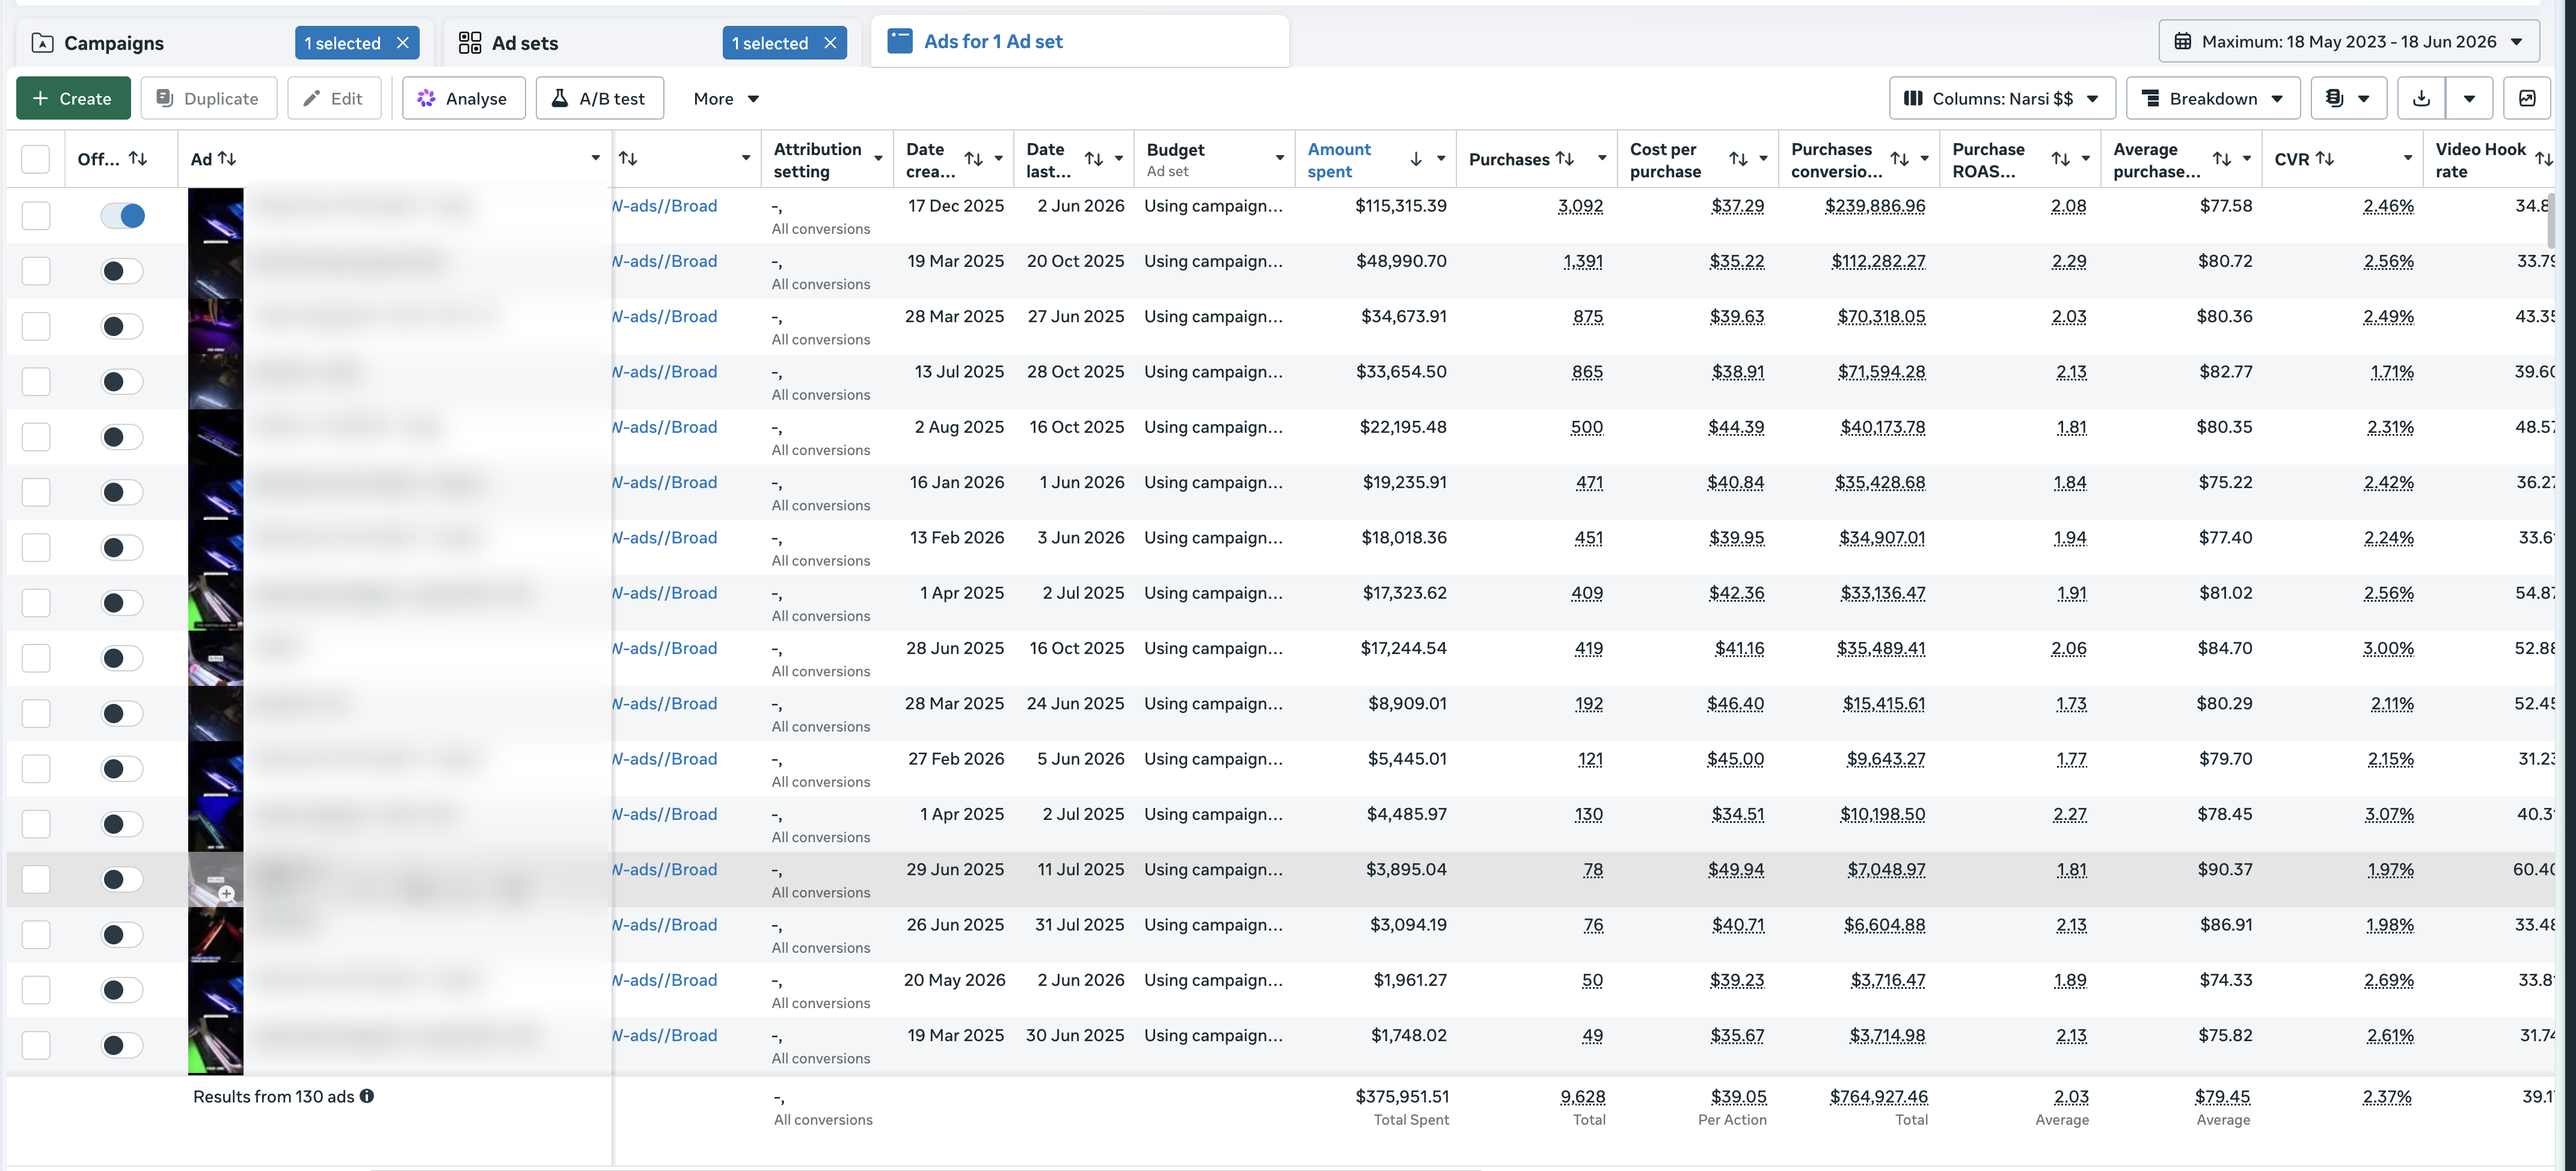
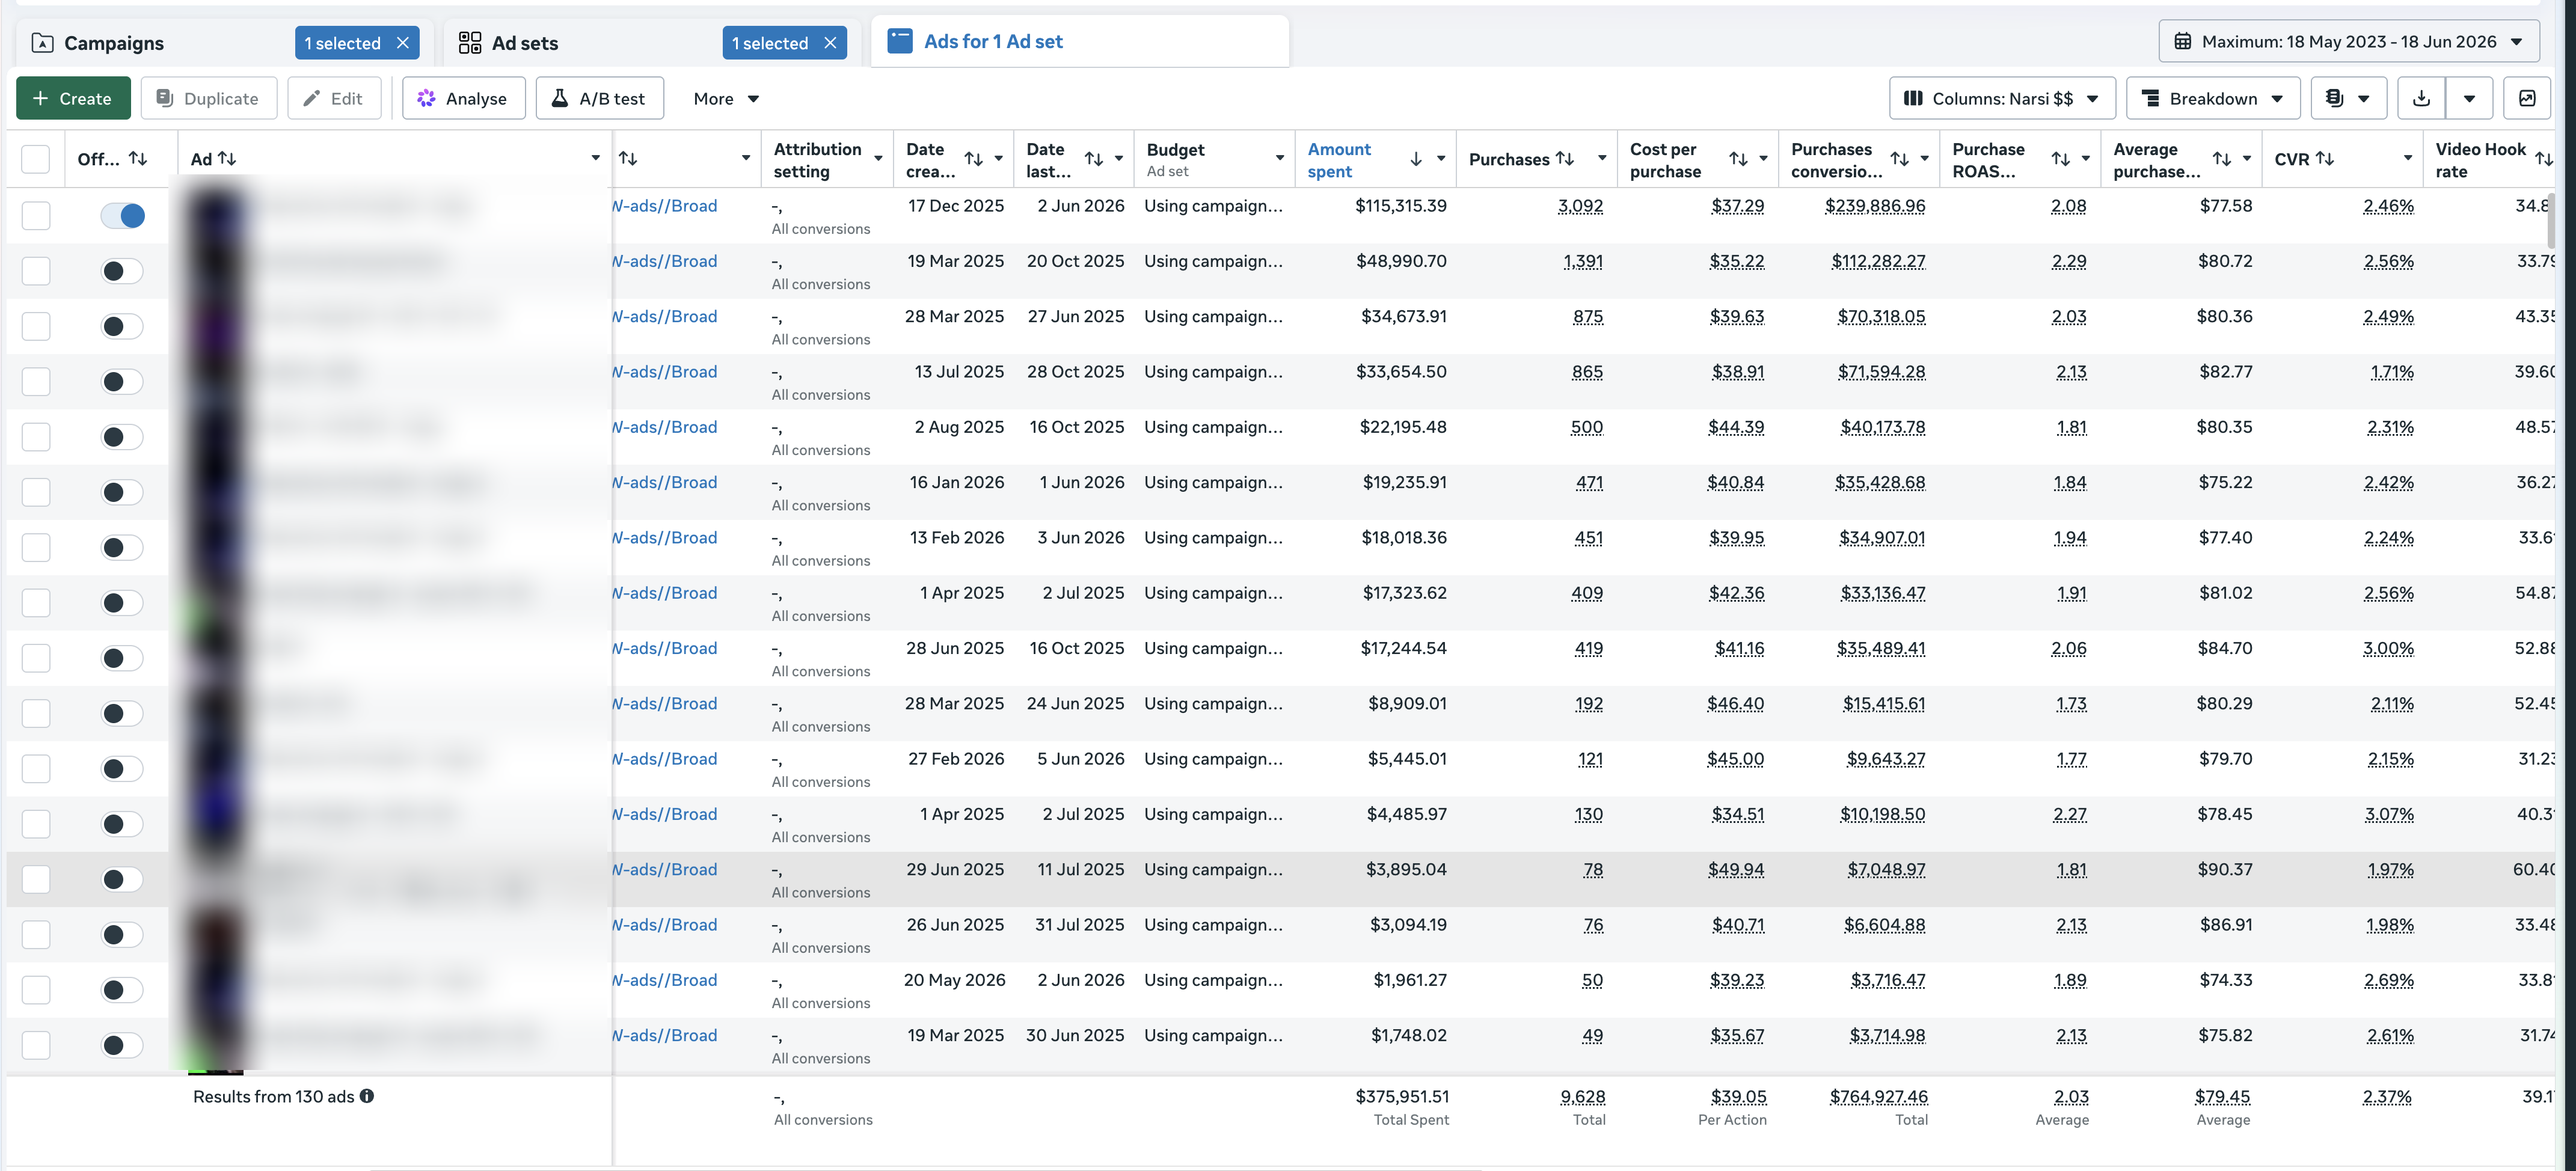
Blur product thumbnails in ads results image, one image per row
Larger, more readable results images - single column layout instead
of a 3-across grid.

Changed region(s): [[0.0621, 0.1232, 0.1242, 0.924]]

diff --git a/assets/styles.css b/assets/styles.css
@@ -240,8 +240,8 @@ a { color: inherit; text-decoration: none; }
 
 .results-grid {
   display: grid;
-  grid-template-columns: repeat(auto-fit, minmax(320px, 1fr));
-  gap: 24px;
+  grid-template-columns: 1fr;
+  gap: 32px;
 }
 
 .results-grid img {
